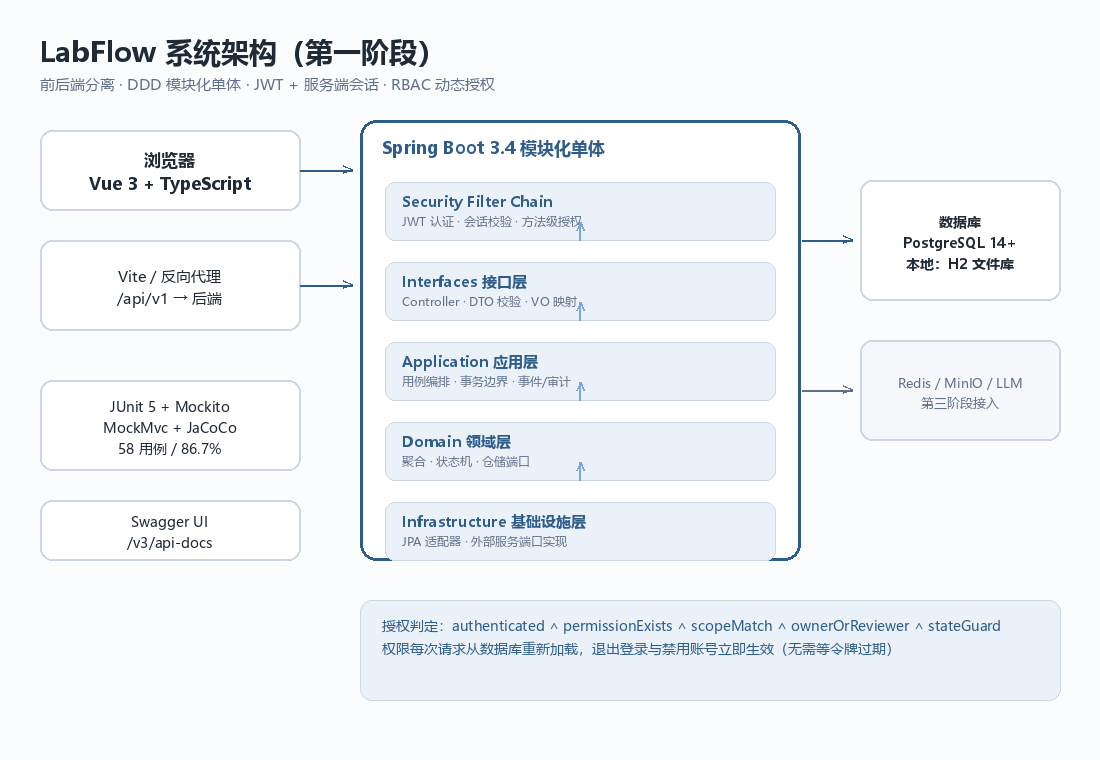
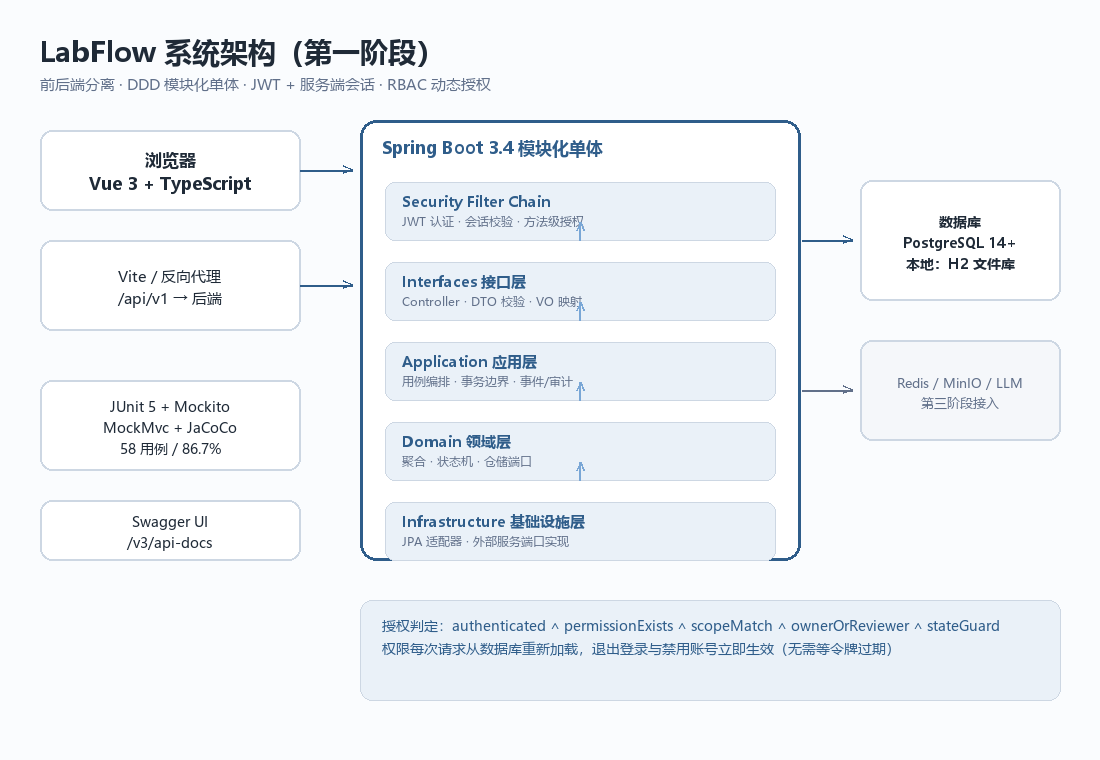
docs(assets): 按真实 jacoco 与 surefire 数据重绘覆盖率配图
原图仍是第一阶段口径（102 个用例、仅身份模块类），且页脚写
Service/Application 层 >= 60%，与实际门禁（整体 85% + identity.application 80%）不符。

脚本改为：
- 用例数从 backend/target/surefire-reports/*.xml 实时统计，不再写死
- 表格补入 research 模块关键类（Project/Task/Report 聚合、
  ProjectScopeService、三个应用服务）
- 页脚改为实际门禁规则

重绘结果：258 个用例、整体 92.8%（2154/167）。

diff --git a/scripts/make_docs_images.py b/scripts/make_docs_images.py
@@ -67,12 +67,34 @@ def read_coverage():
     return rows
 
 
+def count_tests():
+    """从 Surefire 报告里读真实用例数，避免图片上的数字写死后与代码脱节。"""
+    report_dir = os.path.join(ROOT, "backend", "target", "surefire-reports")
+    total = 0
+    if not os.path.isdir(report_dir):
+        return total
+    import xml.etree.ElementTree as ET
+    for name in os.listdir(report_dir):
+        if not name.endswith(".xml"):
+            continue
+        try:
+            root = ET.parse(os.path.join(report_dir, name)).getroot()
+        except ET.ParseError:
+            continue
+        total += int(root.get("tests", "0"))
+    return total
+
+
 def build_coverage_image(rows):
     services = [r for r in rows if r[1] in {
         "AuthService", "UserAdminService", "RoleAdminService", "AccessTokenAuthenticator",
-        "LoginThrottle", "AuditQueryService", "JwtService", "PasswordPolicy", "User", "Role"}]
+        "LoginThrottle", "AuditQueryService", "JwtService", "PasswordPolicy", "User", "Role",
+        "ProjectService", "TaskService", "ReportService", "ProjectScopeService",
+        "Project", "Task", "Report"}]
     order = ["AuthService", "AccessTokenAuthenticator", "LoginThrottle", "JwtService", "User", "Role",
-             "PasswordPolicy", "AuditQueryService", "RoleAdminService", "UserAdminService"]
+             "PasswordPolicy", "AuditQueryService", "RoleAdminService", "UserAdminService",
+             "Project", "Task", "Report", "ProjectScopeService",
+             "ProjectService", "TaskService", "ReportService"]
     services.sort(key=lambda r: order.index(r[1]) if r[1] in order else 99)
 
     total_cov = sum(r[2] for r in rows)
@@ -87,7 +109,8 @@ def build_coverage_image(rows):
     draw = ImageDraw.Draw(img)
 
     draw.text((40, 30), "LabFlow 后端测试覆盖率摘要", font=font(26, True), fill=INK)
-    draw.text((40, 72), f"来源：JaCoCo 0.8.12 · 102 个用例全部通过 · 整体行覆盖率 {overall:.1f}%",
+    draw.text((40, 72),
+              f"来源：JaCoCo 0.8.12 · {count_tests()} 个用例全部通过 · 整体行覆盖率 {overall:.1f}%",
               font=font(15), fill=MUTED)
 
     cols = [40, 330, 560, 760]
@@ -112,7 +135,8 @@ def build_coverage_image(rows):
         y = draw_row(y, cls, cov, miss, pct)
 
     y = draw_row(y, "全部类合计", total_cov, total_miss, overall, strong=True)
-    draw.text((40, y + 10), "Service / Application 层均 ≥ 60%，且由 JaCoCo check 在 CI 中强制校验。",
+    draw.text((40, y + 10),
+              "门禁：整体行覆盖率 ≥ 85%、identity.application 包 ≥ 80%，由 JaCoCo check 在 verify 阶段强制。",
               font=font(13), fill=MUTED)
 
     img.save(os.path.join(ASSETS, "coverage-summary.png"))

diff --git a/docs/testing.md b/docs/testing.md
@@ -266,6 +266,6 @@ python scripts/e2e_smoke.py
 ## 7. 覆盖率口径
 
 JaCoCo 统计 `LINE_COVERED / (LINE_COVERED + LINE_MISSED)`，排除启动类、DTO/VO 与 JPA 实体，配置见 `backend/pom.xml`。
-门禁规则：`BUNDLE` 行覆盖率 ≥ 0.85。
+门禁规则两条：`BUNDLE` 行覆盖率 ≥ 0.85；包 `com/labflow/identity/application` 行覆盖率 ≥ 0.80（身份模块是安全核心，单独加严）。
 
 > 覆盖率是门禁不是目标。第二阶段每加一个模块都先掉覆盖率（B1 后 69%、B2 后 81%），靠补测试拉回 92.8%——这个波动本身说明门禁在起作用，而不是数字好看。
